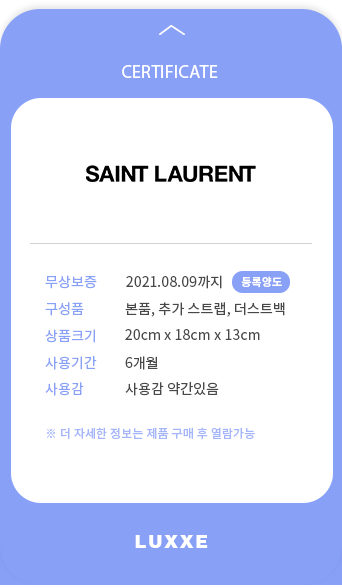
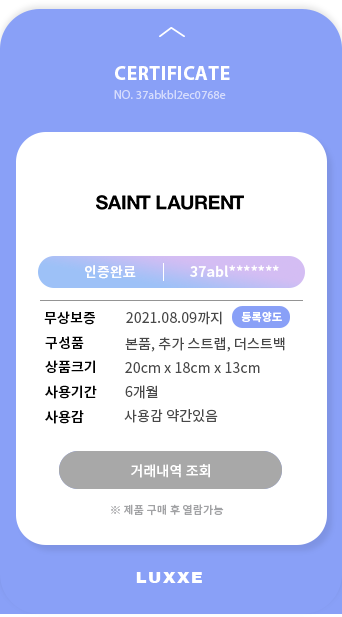
인증서 변경 화폐단위 변경

diff --git a/productdetail.html b/productdetail.html
@@ -48,6 +48,7 @@
         </div>
         <div class="product__brand"><p>Saint Laurent</p></div>
         <div class="product__mark">
+          <div class="mark__icon certif"><p class="">인증완료</p></div>
           <div class="mark__icon"><p class="">무상보증가능</p></div>
           <div class="mark__icon"><p class="">택배거래</p></div>
         </div>
@@ -58,7 +59,7 @@
         </div>
         <div class="line_thin"></div>
         <p class="canhalfway">가격조율가능</p>
-        <p class="price">3,000,000<span>원</span></p>
+        <p class="price">3,000,000<span>LX</span></p>
       </div>
     </div>
     <button class="chat__icon"><img src="img/icon-chat.png" alt="" /></button>

diff --git a/product.css b/product.css
@@ -14,6 +14,7 @@
   --size-slider-width: 210px;
   --color-main: #80a9f7;
   --color-certificate: #89a0f7;
+  --color-mark: #998af6;
   --color-banner: #a1b3f9;
   --color-main-light: #c9d4ff;
   --color-font: #16151a;
@@ -217,6 +218,9 @@ i.fa-times {
   margin-top: 21px;
   margin-right: 6px;
 }
+.certif {
+  background-color: var(--color-mark);
+}
 .mark__icon p {
   font-size: 11px;
   font-weight: 600;
@@ -246,4 +250,10 @@ p.canhalfway {
 }
 
 p.price {
+  font-weight: 800;
+  font-size: 22px;
+}
+.price span {
+  color: var(--color-mark);
+  margin-left: 6px;
 }
